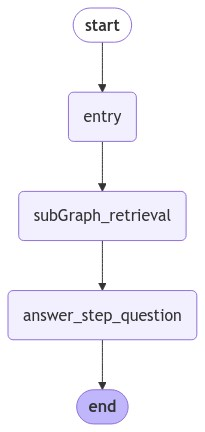
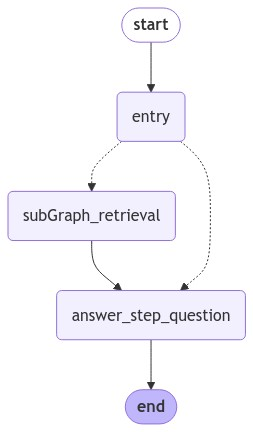
add retrieval_needed field to steps

diff --git a/app/step_list.py b/app/step_list.py
@@ -3,33 +3,40 @@ STEP_LIST = [
         "prompt": "What are the core packages used in this project?",
         "queries": ["Core packages used in this project"],
         "feedback_question": "Are these packages core to your project?",
+        "retrieval_needed": False,
     },
     {
         "prompt": "Write the summary of this repository in 200 words or less.",
         "queries": ["Summary of the repository", "What is this repository about?"],
         "feedback_question": "Does this summary look good to you?",
+        "retrieval_needed": False,
     },
     {
         "prompt": "List what technologies are used in this repository",
         "queries": ["Technologies used in the repository", "What technologies are used in this repository?"],
         "feedback_question": "Does this technology list look good to you?",
+        "retrieval_needed": False,
     },
     # {
     #     "prompt": "What is the entry point of the codebase?",
     #     "queries": ["Entry point of the codebase", "How to run the codebase"],
     #     "feedback_question": "Is this the entry point of your project?",
+    #     "retrieval_needed": False,
     # },
     # {
     #     "prompt": "Write the installation instructions for this repository.",
     #     "queries": ["Installation instructions", "How to install this repository?"],
     #     "feedback_question": "Does this installation instruction look good to you?",
+    #     "retrieval_needed": False,
     # },
     # {
     #     "prompt": "Write the usage instructions for this repository.",
     #     "feedback_question": "Does this usage instruction look good to you?",
+    #     "retrieval_needed": False,
     # },
     # {
     #     "prompt": "Write the contribution guidelines for this repository.",
     #     "feedback_question": "Does this contribution guideline look good to you?",
+    #     "retrieval_needed": False,
     # },
 ]

diff --git a/app/agents/subgraphs/steps/graph.py b/app/agents/subgraphs/steps/graph.py
@@ -7,13 +7,25 @@ from app.agents.state_schema import State
 
 from .answer_step_question import answer_step_question
 from .retrieval.graph import subGraph_retrieval
+from app.utils.converters import to_path_map
+
+
+def do_need_to_retrieve(state: State):
+    if state["step_question"]["retrieval_needed"]:
+        return n(subGraph_retrieval)
+    else:
+        return n(answer_step_question)
 
 
 g = StateGraph(State)
 g.set_entry_point("entry")
 
 g.add_node("entry", RunnablePassthrough())
-g.add_edge("entry", n(subGraph_retrieval))
+g.add_conditional_edges(
+    "entry",
+    do_need_to_retrieve,
+    to_path_map([n(subGraph_retrieval), n(answer_step_question)]),
+)
 
 g.add_node(n(subGraph_retrieval), subGraph_retrieval)
 g.add_edge(n(subGraph_retrieval), n(answer_step_question))

diff --git a/app/controllers/init.py b/app/controllers/init.py
@@ -6,7 +6,7 @@ from app.utils.get_repo_info import get_repo_info
 from app.utils.db_functions import initialize_db
 from app.agents.main_graph import main_graph
 
-from app.assets.step_list import STEP_LIST
+from app.step_list import STEP_LIST
 
 from app.agents.state_schema import RetrievalMethod
 

diff --git a/app/controllers/step.py b/app/controllers/step.py
@@ -8,7 +8,7 @@ from app.utils.db_functions import insert_step_db, update_readme_content
 from app.agents.main_graph import main_graph
 from app.db import db
 
-from app.assets.step_list import STEP_LIST
+from app.step_list import STEP_LIST
 from app.global_vars import DEBUG
 
 

diff --git a/run_graph_locally.py b/run_graph_locally.py
@@ -6,7 +6,7 @@ import os
 from app.agents.main_graph import main_graph
 from app.utils.get_repo_info import get_repo_info
 
-from app.assets.step_list import STEP_LIST
+from app.step_list import STEP_LIST
 
 CLONE_URL = "https://github.com/minki-j/AI_README_Generator.git"
 

diff --git a/app/views/step.py b/app/views/step.py
@@ -1,7 +1,7 @@
 from fasthtml.common import *
 from app.components.pages import StepPage
 
-from app.assets.step_list import STEP_LIST
+from app.step_list import STEP_LIST
 from app.db import db
 
 

diff --git a/app/views/history.py b/app/views/history.py
@@ -2,7 +2,7 @@ from fasthtml.common import *
 
 from app.components.step import Step
 
-from app.assets.step_list import STEP_LIST
+from app.step_list import STEP_LIST
 from app.db import db
 
 
